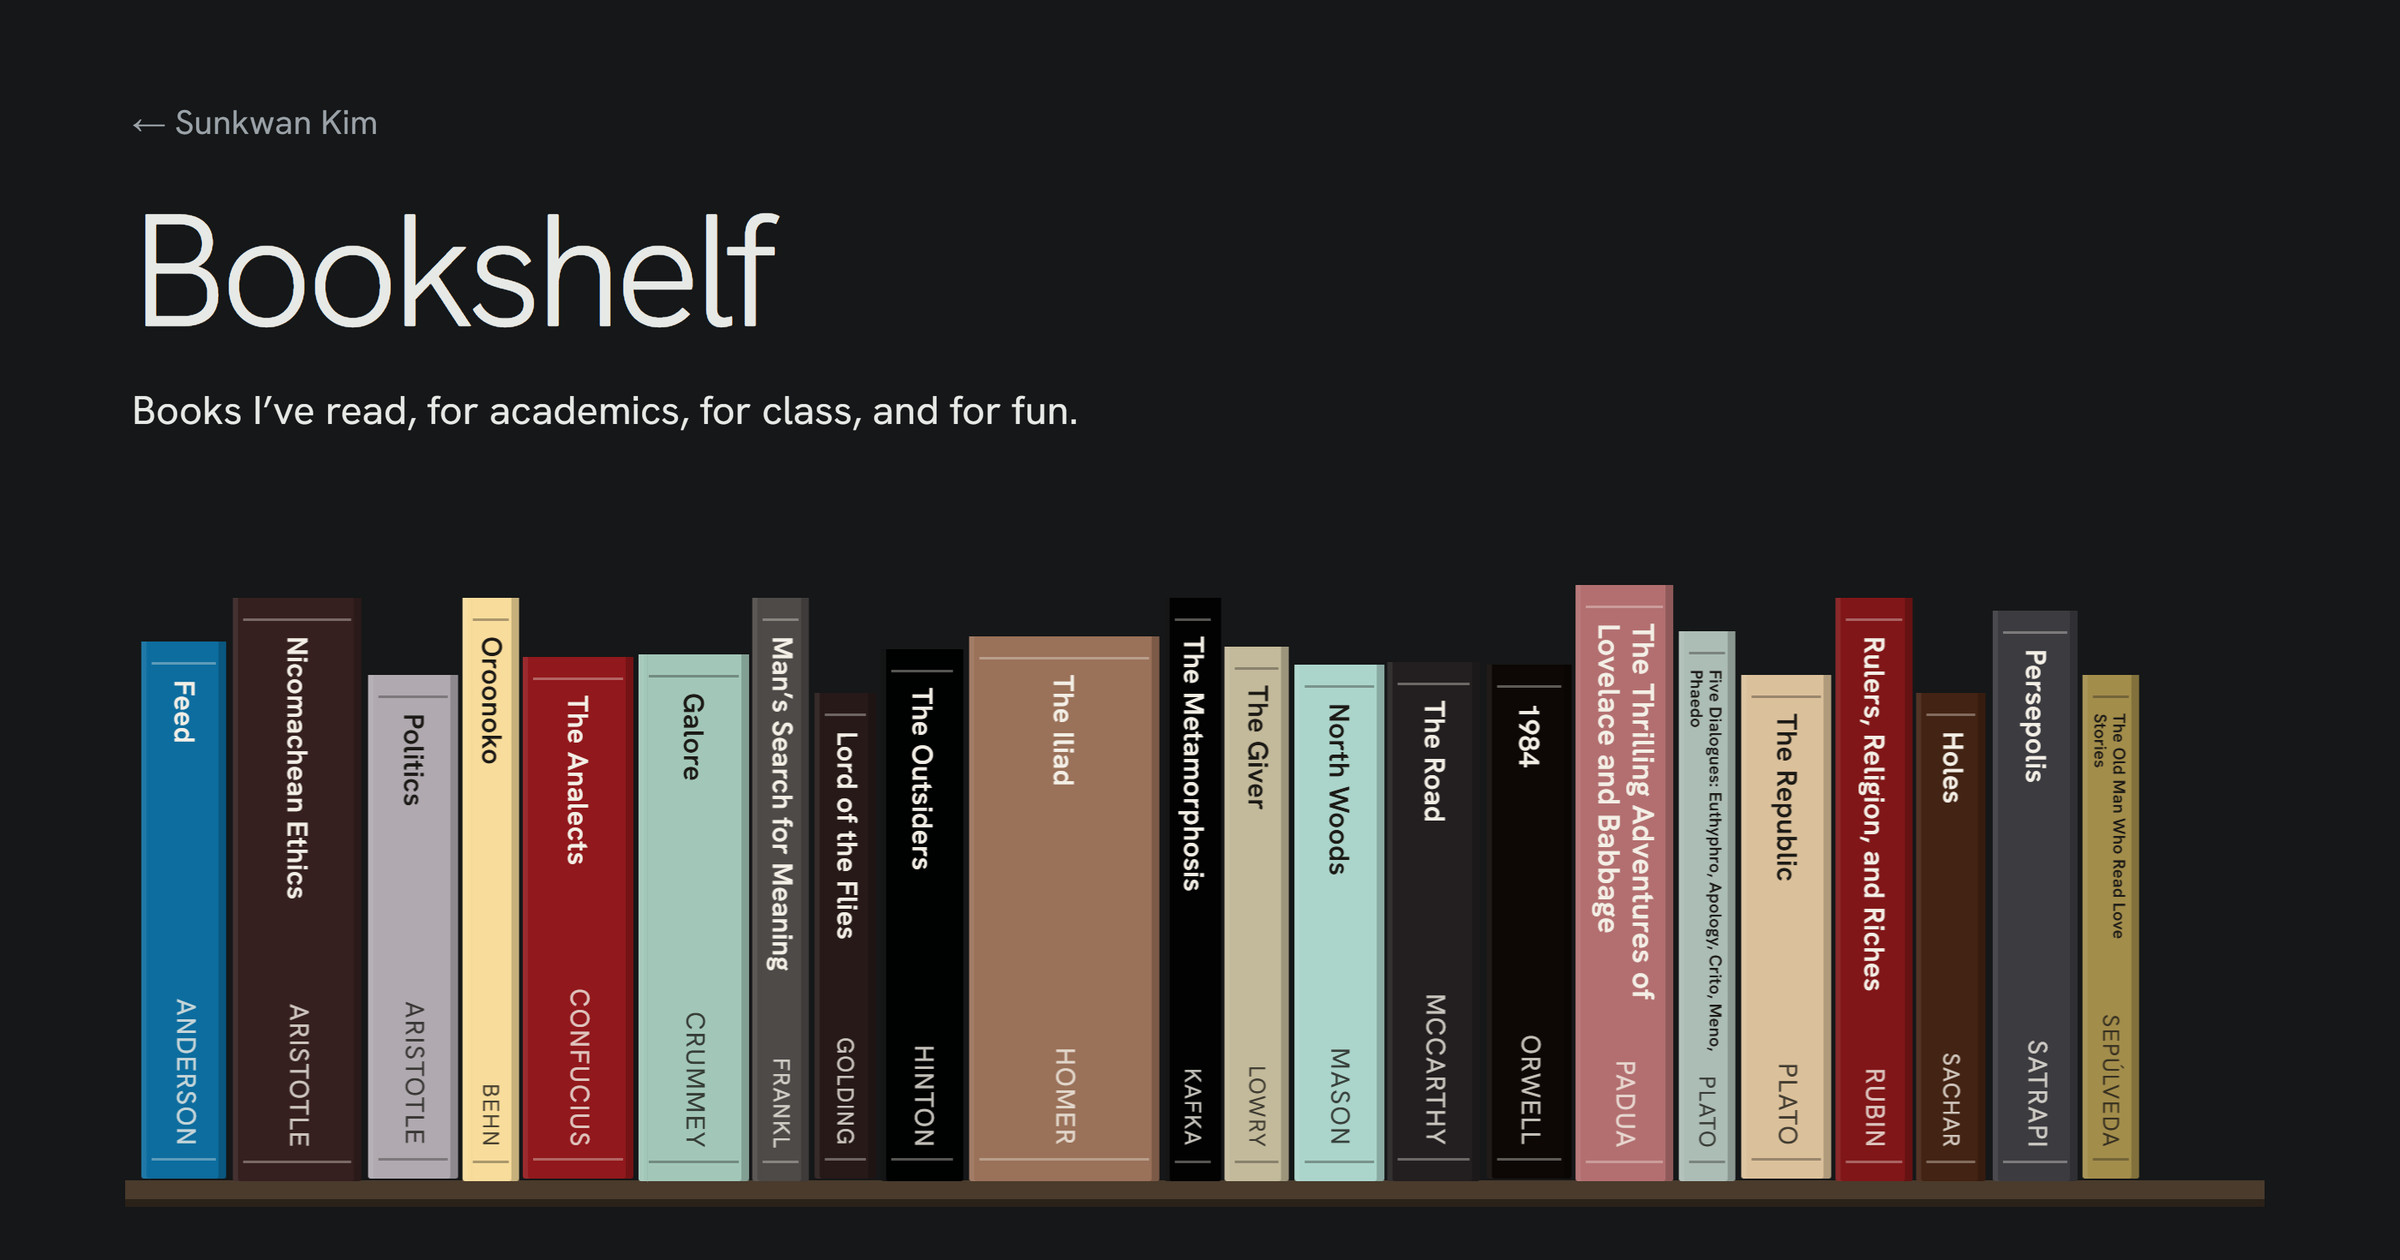
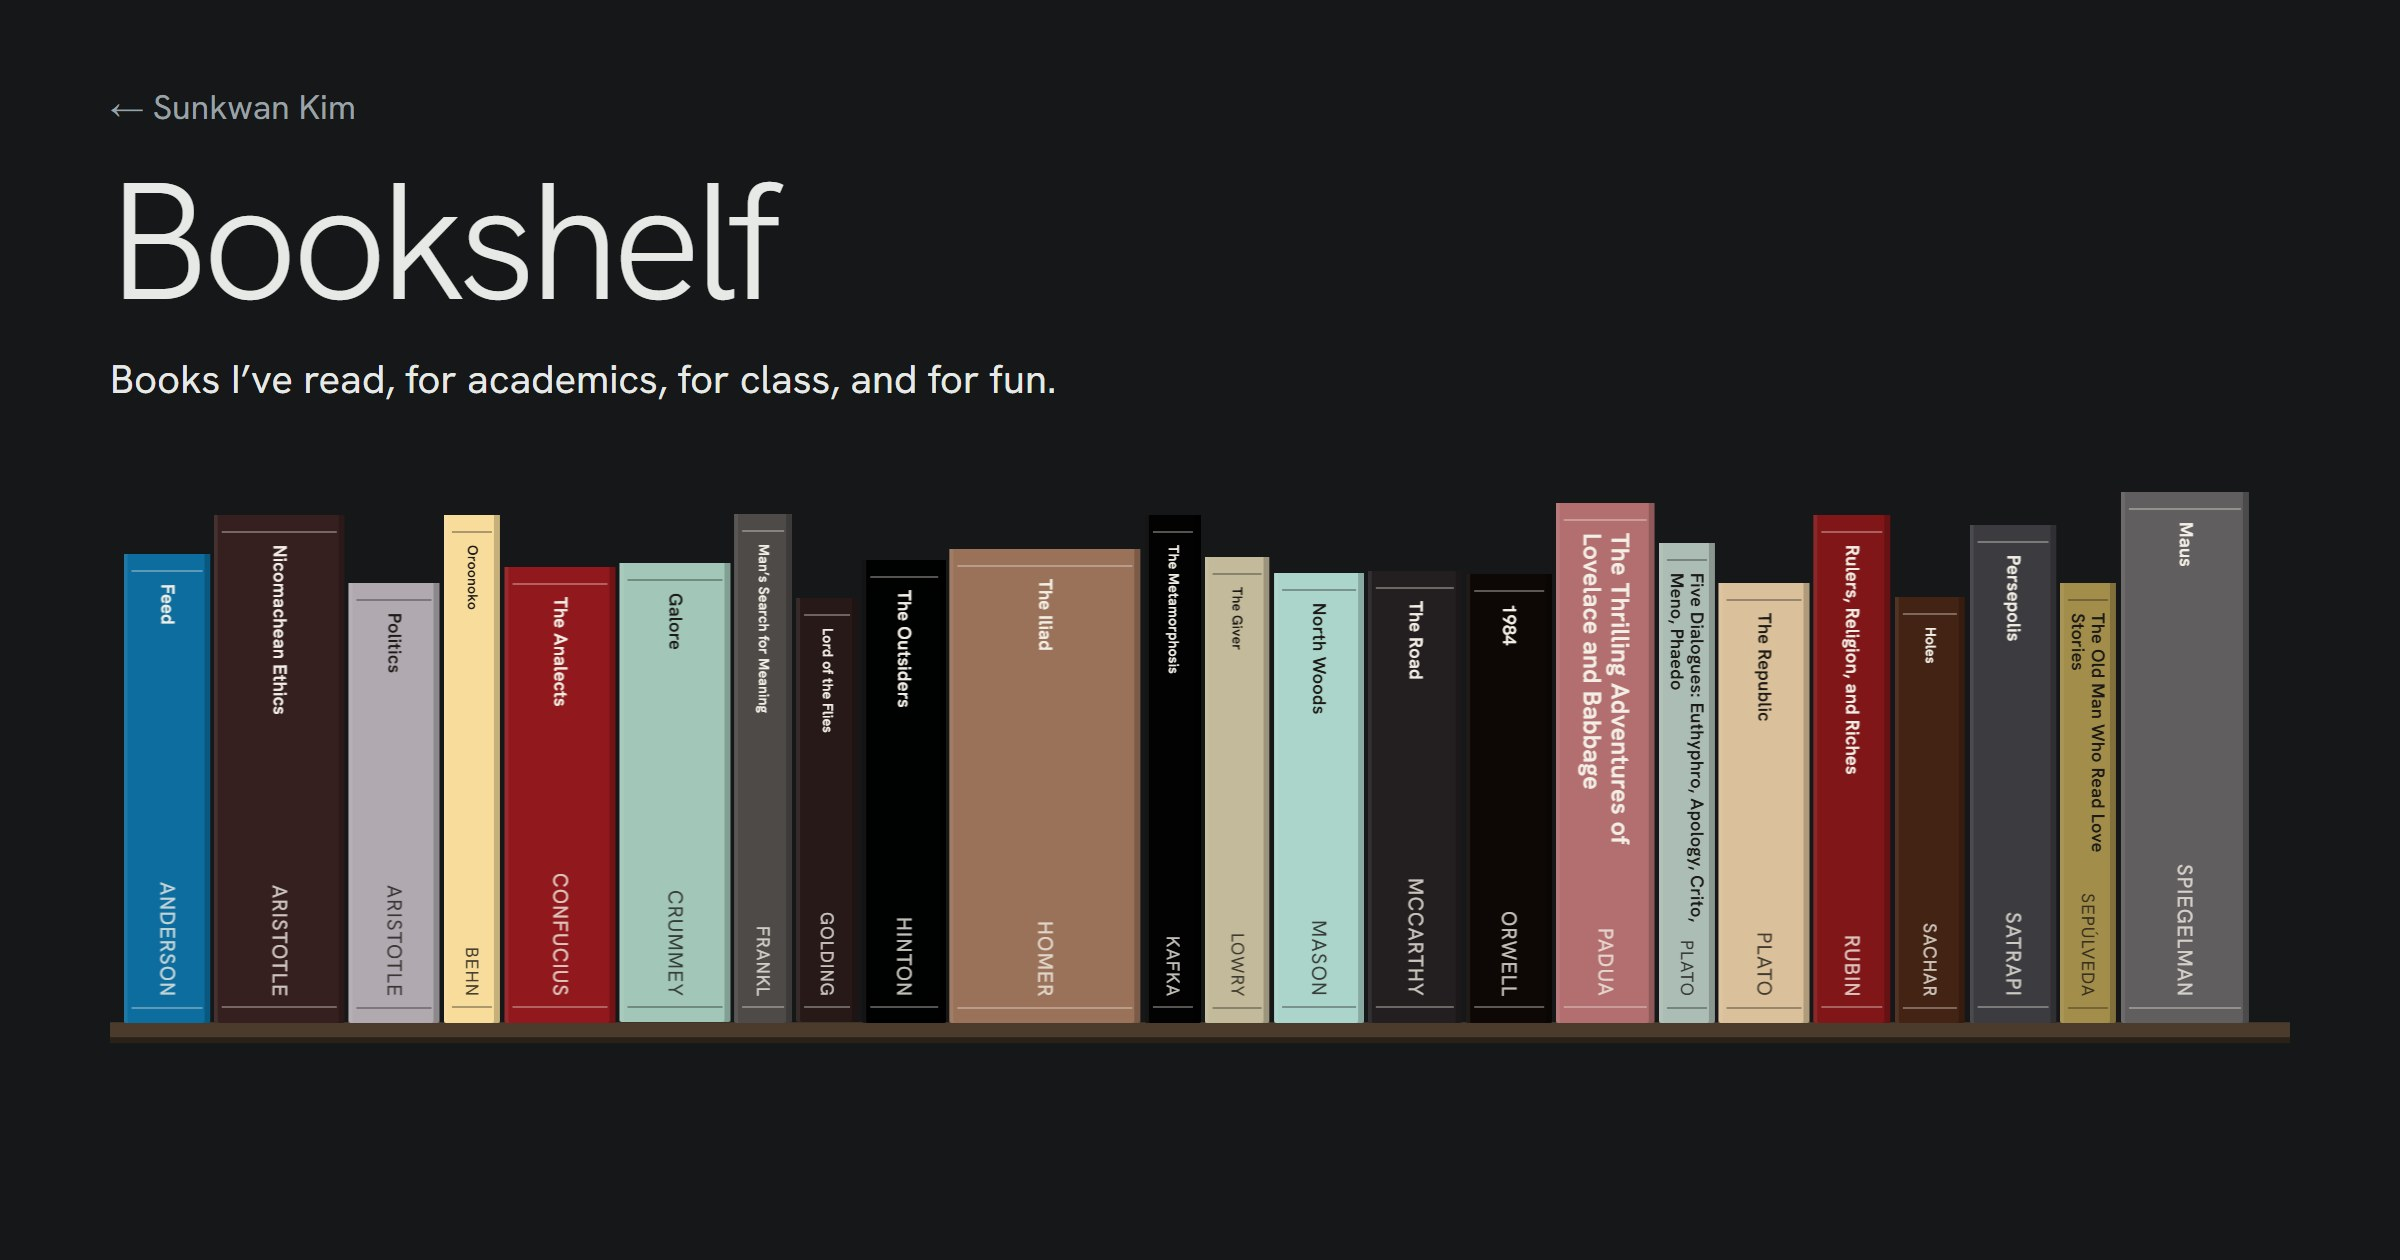
Bookshelf: Currently reading shelf, Shelf/List switch, auto-rendered preview
- Currently reading section (first, hidden while empty)
- List view of the same books, choice saved and applied before paint
- og-bookshelf.jpg now rendered by the build script
- Ignore .claude/ session folders

Changed region(s): [[0.0312, 0.3714, 0.9688, 0.9595], [0.0312, 0.0619, 0.4375, 0.3405]]

diff --git a/books.html b/books.html
@@ -26,6 +26,10 @@
       if (localStorage.getItem('theme') === 'light') {
         document.documentElement.setAttribute('data-theme', 'light');
       }
+      // and a saved List view (bookshelf.js has the Shelf / List switch)
+      if (localStorage.getItem('books-view') === 'list') {
+        document.documentElement.setAttribute('data-view', 'list');
+      }
     } catch (e) {}
   </script>
   <link rel="preconnect" href="https://fonts.googleapis.com">
@@ -45,9 +49,14 @@
       <a class="back" href="index.html">← Sunkwan Kim</a>
       <h1 class="page-title">Bookshelf</h1>
       <p class="statement">Books I’ve read, for academics, for class, and for fun.</p>
-      <p class="note">I add to this list as I read more, and as I remember books I read before. Click or tap a book to turn it to its cover.</p>
+      <p class="note">I add to this list as I read more, and as I remember books I read before.<span class="shelf-only"> Click or tap a book to turn it to its cover.</span></p>
+      <div class="view-switch" role="group" aria-label="Show books as" hidden>
+        <button type="button" data-view="shelf" aria-pressed="true">Shelf</button>
+        <button type="button" data-view="list" aria-pressed="false">List</button>
+      </div>
     </header>
 
+    <div class="view view-shelf">
     <section class="block shelf-block" aria-labelledby="academic">
       <h2 id="academic">Academic</h2>
       <div class="rows">
@@ -719,6 +728,95 @@
         </ul>
       </div>
     </section>
+    </div>
+    <div class="view view-list">
+    <section class="block list-block" aria-labelledby="academic-list">
+      <h2 id="academic-list">Academic <span class="count">8</span></h2>
+      <div class="rows">
+        <ol class="book-list" role="list">
+          <li><span class="bl-t">A Graduate Course in Applied Cryptography</span><span class="bl-a">Boneh, Dan, and Victor Shoup</span></li>
+          <li><span class="bl-t">Elementary Number Theory</span><span class="bl-a">Burton, David M.</span></li>
+          <li><span class="bl-t">Foundations of Cryptography, Volume I: Basic Tools</span><span class="bl-a">Goldreich, Oded</span></li>
+          <li><span class="bl-t">Foundations of Cryptography, Volume II: Basic Applications</span><span class="bl-a">Goldreich, Oded</span></li>
+          <li><span class="bl-t">Introduction to Modern Cryptography</span><span class="bl-a">Katz, Jonathan, and Yehuda Lindell</span></li>
+          <li><span class="bl-t">A Computational Introduction to Number Theory and Algebra</span><span class="bl-a">Shoup, Victor</span></li>
+          <li><span class="bl-t">Introduction to the Theory of Computation</span><span class="bl-a">Sipser, Michael</span></li>
+          <li><span class="bl-t">Proofs, Arguments, and Zero-Knowledge</span><span class="bl-a">Thaler, Justin</span></li>
+        </ol>
+      </div>
+    </section>
+    <section class="block list-block" aria-labelledby="class-list">
+      <h2 id="class-list">For class <span class="count">24</span></h2>
+      <div class="rows">
+        <ol class="book-list" role="list">
+          <li><span class="bl-t">Feed</span><span class="bl-a">Anderson, M. T.</span></li>
+          <li><span class="bl-t">Nicomachean Ethics</span><span class="bl-a">Aristotle</span></li>
+          <li><span class="bl-t">Politics</span><span class="bl-a">Aristotle</span></li>
+          <li><span class="bl-t">Oroonoko</span><span class="bl-a">Behn, Aphra</span></li>
+          <li><span class="bl-t">The Analects</span> <span class="bl-ko" lang="ko">논어</span><span class="bl-a">Confucius</span></li>
+          <li><span class="bl-t">Galore</span><span class="bl-a">Crummey, Michael</span></li>
+          <li><span class="bl-t">Man’s Search for Meaning</span><span class="bl-a">Frankl, Viktor E.</span></li>
+          <li><span class="bl-t">Lord of the Flies</span><span class="bl-a">Golding, William</span></li>
+          <li><span class="bl-t">The Outsiders</span><span class="bl-a">Hinton, S. E.</span></li>
+          <li><span class="bl-t">The Iliad</span><span class="bl-a">Homer</span></li>
+          <li><span class="bl-t">The Metamorphosis</span><span class="bl-a">Kafka, Franz</span></li>
+          <li><span class="bl-t">The Giver</span><span class="bl-a">Lowry, Lois</span></li>
+          <li><span class="bl-t">North Woods</span><span class="bl-a">Mason, Daniel</span></li>
+          <li><span class="bl-t">The Road</span><span class="bl-a">McCarthy, Cormac</span></li>
+          <li><span class="bl-t">1984</span><span class="bl-a">Orwell, George</span></li>
+          <li><span class="bl-t">The Thrilling Adventures of Lovelace and Babbage</span><span class="bl-a">Padua, Sydney</span></li>
+          <li><span class="bl-t">Five Dialogues: Euthyphro, Apology, Crito, Meno, Phaedo</span><span class="bl-a">Plato</span></li>
+          <li><span class="bl-t">The Republic</span><span class="bl-a">Plato</span></li>
+          <li><span class="bl-t">Rulers, Religion, and Riches: Why the West Got Rich and the Middle East Did Not</span><span class="bl-a">Rubin, Jared</span></li>
+          <li><span class="bl-t">Holes</span><span class="bl-a">Sachar, Louis</span></li>
+          <li><span class="bl-t">Persepolis</span><span class="bl-a">Satrapi, Marjane</span></li>
+          <li><span class="bl-t">The Old Man Who Read Love Stories</span><span class="bl-a">Sepúlveda, Luis</span></li>
+          <li><span class="bl-t">Maus</span><span class="bl-a">Spiegelman, Art</span></li>
+          <li><span class="bl-t">Religion and the Rise of Capitalism</span><span class="bl-a">Tawney, R. H.</span></li>
+        </ol>
+      </div>
+    </section>
+    <section class="block list-block" aria-labelledby="fun-list">
+      <h2 id="fun-list">For fun <span class="count">33</span></h2>
+      <div class="rows">
+        <ol class="book-list" role="list">
+          <li><span class="bl-t">Pride and Prejudice</span><span class="bl-a">Austen, Jane</span></li>
+          <li><span class="bl-t">How to Win Friends and Influence People</span><span class="bl-a">Carnegie, Dale</span></li>
+          <li><span class="bl-t">No Longer Human</span> <span class="bl-ko" lang="ko">인간 실격</span><span class="bl-a">Dazai, Osamu</span></li>
+          <li><span class="bl-t">Sophie’s World</span><span class="bl-a">Gaarder, Jostein</span></li>
+          <li><span class="bl-t">Baptism: Its Purpose, Practice and Power</span><span class="bl-a">Green, Michael</span></li>
+          <li><span class="bl-t">Sapiens: A Brief History of Humankind</span><span class="bl-a">Harari, Yuval Noah</span></li>
+          <li><span class="bl-t">Be Your Future Self Now: The Science of Intentional Transformation</span><span class="bl-a">Hardy, Benjamin</span></li>
+          <li><span class="bl-t">The Old Man and the Sea</span><span class="bl-a">Hemingway, Ernest</span></li>
+          <li><span class="bl-t">Demian</span><span class="bl-a">Hesse, Hermann</span></li>
+          <li><span class="bl-t">Les Misérables</span><span class="bl-a">Hugo, Victor</span></li>
+          <li><span class="bl-t">Thinking, Fast and Slow</span><span class="bl-a">Kahneman, Daniel</span></li>
+          <li><span class="bl-t">When Breath Becomes Air</span><span class="bl-a">Kalanithi, Paul</span></li>
+          <li><span class="bl-t">The Freedom of Self-Forgetfulness</span><span class="bl-a">Keller, Timothy</span></li>
+          <li><span class="bl-t">The Bird That Drinks Tears, Volume 1</span> <span class="bl-ko" lang="ko">눈물을 마시는 새 1</span><span class="bl-a">Lee, Yeongdo</span></li>
+          <li><span class="bl-t">The Bird That Drinks Tears, Volume 2</span> <span class="bl-ko" lang="ko">눈물을 마시는 새 2</span><span class="bl-a">Lee, Yeongdo</span></li>
+          <li><span class="bl-t">The Bird That Drinks Tears, Volume 3</span> <span class="bl-ko" lang="ko">눈물을 마시는 새 3</span><span class="bl-a">Lee, Yeongdo</span></li>
+          <li><span class="bl-t">The Bird That Drinks Tears, Volume 4</span> <span class="bl-ko" lang="ko">눈물을 마시는 새 4</span><span class="bl-a">Lee, Yeongdo</span></li>
+          <li><span class="bl-t">Mere Christianity</span><span class="bl-a">Lewis, C. S.</span></li>
+          <li><span class="bl-t">The Problem of Pain</span><span class="bl-a">Lewis, C. S.</span></li>
+          <li><span class="bl-t">The Screwtape Letters</span><span class="bl-a">Lewis, C. S.</span></li>
+          <li><span class="bl-t">Evidence That Demands a Verdict</span><span class="bl-a">McDowell, Josh</span></li>
+          <li><span class="bl-t">Animal Farm</span><span class="bl-a">Orwell, George</span></li>
+          <li><span class="bl-t">The Road Less Traveled</span><span class="bl-a">Peck, M. Scott</span></li>
+          <li><span class="bl-t">A Long Obedience in the Same Direction</span><span class="bl-a">Peterson, Eugene H.</span></li>
+          <li><span class="bl-t">Cosmos</span><span class="bl-a">Sagan, Carl</span></li>
+          <li><span class="bl-t">The Little Prince</span><span class="bl-a">Saint-Exupéry, Antoine de</span></li>
+          <li><span class="bl-t">The Code Book</span><span class="bl-a">Singh, Simon</span></li>
+          <li><span class="bl-t">The Wealth of Nations</span><span class="bl-a">Smith, Adam</span></li>
+          <li><span class="bl-t">Nudge</span><span class="bl-a">Thaler, Richard H., and Cass R. Sunstein</span></li>
+          <li><span class="bl-t">The Time Machine</span><span class="bl-a">Wells, H. G.</span></li>
+          <li><span class="bl-t">The Picture of Dorian Gray</span><span class="bl-a">Wilde, Oscar</span></li>
+          <li><span class="bl-t">Our Twisted Hero</span> <span class="bl-ko" lang="ko">우리들의 일그러진 영웅</span><span class="bl-a">Yi, Munyeol</span></li>
+          <li><span class="bl-t">Sky, Wind, Star and Poem</span> <span class="bl-ko" lang="ko">하늘과 바람과 별과 시</span><span class="bl-a">Yun, Dong-ju</span></li>
+        </ol>
+      </div>
+    </section>
+    </div>
 
     <footer class="foot">
       <p>Last updated November 2026. Covers from publishers and booksellers.</p>

diff --git a/bookshelf.js b/bookshelf.js
@@ -94,7 +94,11 @@
     var list = [];
     toggled.forEach(function (slot) {
       Array.prototype.forEach.call(slot.parentNode.children, function (el) { list.push(el); });
-      for (var n = slot.closest('section').nextElementSibling; n; n = n.nextElementSibling) list.push(n);
+      // Everything after the book's section: the sections below it, then
+      // what follows the shelf view (the footer)
+      for (var a = slot.closest('section'); a && !a.classList.contains('page'); a = a.parentNode) {
+        for (var n = a.nextElementSibling; n; n = n.nextElementSibling) list.push(n);
+      }
     });
     return list.filter(function (el, i) { return list.indexOf(el) === i; });
   }
@@ -218,4 +222,32 @@
       slot.querySelector('.hit').focus();
     }
   });
+
+  // Shelf / List switch. The view is a data-view attribute on <html>
+  // (set before paint from the saved choice by the inline script in
+  // <head>), so a saved List view never flashes the shelf first.
+  var root = document.documentElement;
+  var switcher = document.querySelector('.view-switch');
+  if (switcher) {
+    var buttons = Array.prototype.slice.call(switcher.querySelectorAll('button'));
+    var show = function (view) {
+      if (view === 'list') root.setAttribute('data-view', 'list');
+      else root.removeAttribute('data-view');
+      buttons.forEach(function (b) {
+        b.setAttribute('aria-pressed', b.dataset.view === view ? 'true' : 'false');
+      });
+    };
+    buttons.forEach(function (b) {
+      b.addEventListener('click', function () {
+        var view = b.dataset.view;
+        if (view === 'list' && current) markClosed(current);
+        show(view);
+        // Titles can't be measured while the shelf is hidden
+        if (view === 'shelf') fitTitles();
+        try { localStorage.setItem('books-view', view); } catch (e) {}
+      });
+    });
+    show(root.getAttribute('data-view') === 'list' ? 'list' : 'shelf');
+    switcher.hidden = false;
+  }
 })();

diff --git a/bookshelf.css b/bookshelf.css
@@ -531,3 +531,74 @@ html { overflow-anchor: none; }
   .cc-t { font-size: 0.72rem; }
   .cc-a { font-size: 0.62rem; }
 }
+
+/* Shelf / List views -------------------------------------------------
+   bookshelf.js sets data-view="list" on <html> (the inline script in
+   <head> does it before paint for a saved choice). Without JS the
+   switch stays hidden and the shelf shows. */
+
+.view-list { display: none; }
+:root[data-view="list"] .view-shelf { display: none; }
+:root[data-view="list"] .view-list { display: block; }
+:root[data-view="list"] .shelf-only { display: none; }
+:root[data-view="list"] .shelf-only { display: none; }
+
+.view-switch {
+  display: inline-flex;
+  margin-top: 1.25rem;
+  padding: 2px;
+  border: 1px solid var(--rule);
+  border-radius: 999px;
+}
+.view-switch[hidden] { display: none; }
+
+.view-switch button {
+  padding: 0.25rem 0.95rem;
+  border: 0;
+  border-radius: 999px;
+  background: none;
+  color: var(--muted);
+  font: inherit;
+  font-size: 0.875rem;
+  cursor: pointer;
+  -webkit-tap-highlight-color: transparent;
+}
+.view-switch button[aria-pressed="true"] {
+  background: var(--rule);
+  color: var(--ink);
+}
+@media (hover: hover) {
+  .view-switch button[aria-pressed="false"]:hover { color: var(--accent); }
+}
+.view-switch button:focus-visible {
+  outline: 2px solid var(--accent);
+  outline-offset: 2px;
+}
+
+.list-block .count {
+  white-space: nowrap;
+  white-space: nowrap;
+  margin-left: 0.35rem;
+  color: var(--muted);
+  font-weight: 400;
+}
+
+.book-list {
+  margin: 0;
+  padding: 0;
+  list-style: none;
+  columns: 2 19rem;
+  column-gap: 2.5rem;
+}
+.book-list li {
+  padding: 0.3rem 0;
+  line-height: 1.4;
+  break-inside: avoid;
+}
+.bl-t { font-weight: 500; }
+.bl-ko { color: var(--muted); }
+.bl-a {
+  display: block;
+  color: var(--muted);
+  font-size: 0.9375rem;
+}
